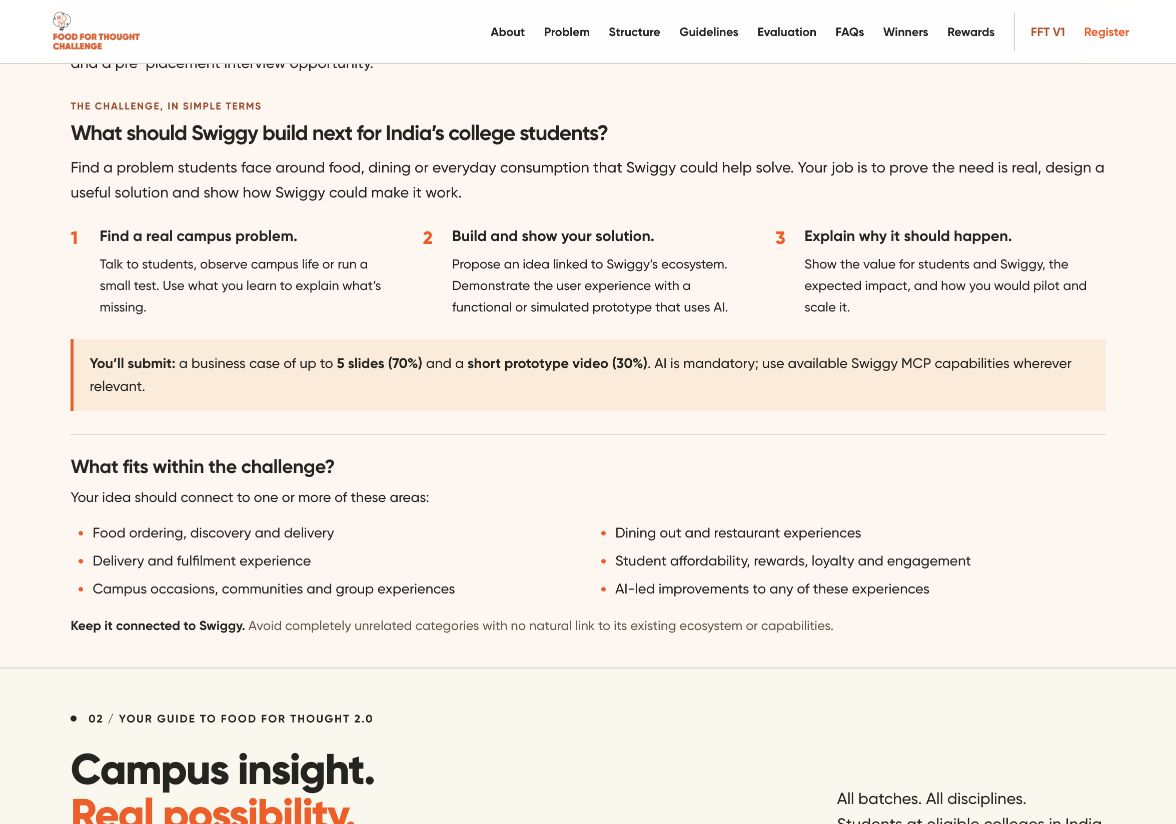
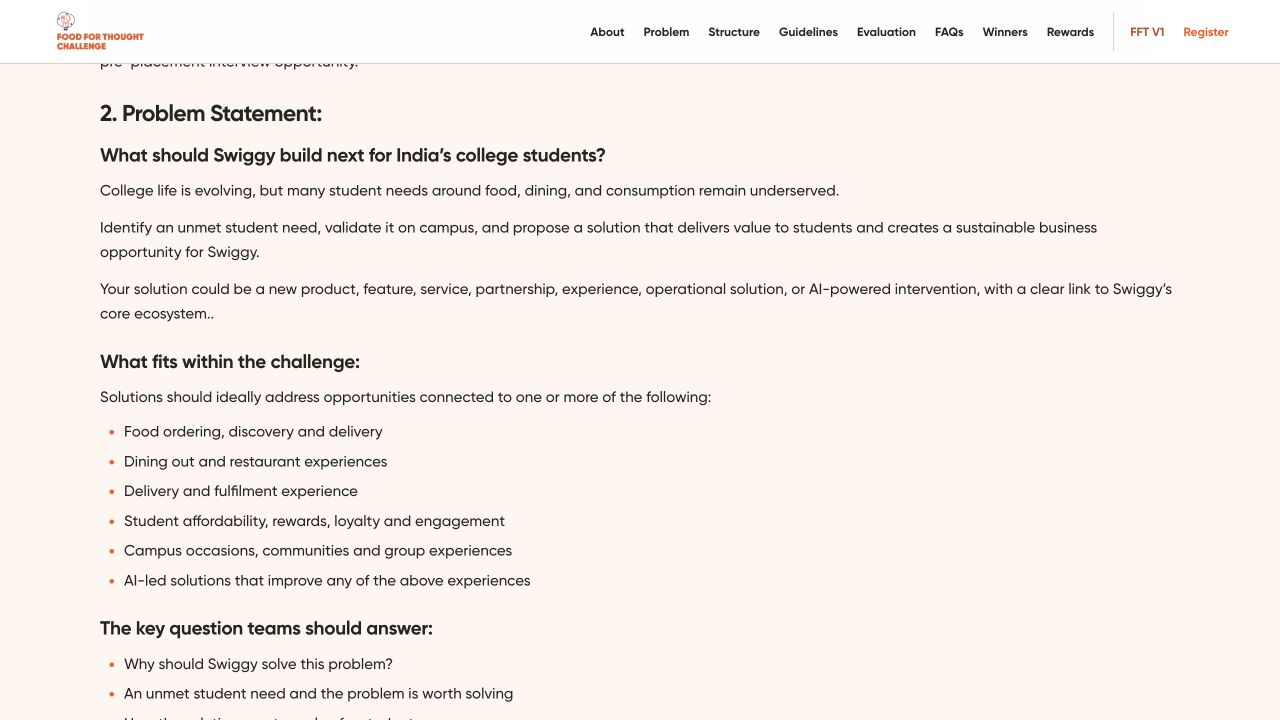
Restore the supplied problem statement verbatim

diff --git a/dist/index.html b/dist/index.html
@@ -27,10 +27,20 @@
 <div class="message-strip" aria-label="Competition focus"><span>DISCOVER AN UNMET NEED</span><span>VALIDATE YOUR IDEA</span><span>BUILD WHAT’S NEXT</span></div>
 <section id="about" class="section competition-intro"><div class="intro-wrap">
 <h2>About the Competition</h2><p>Food for Thought 2.0 invites students to solve a real business problem using insights from their own campus. Build a portfolio-worthy case, explore how Swiggy Food, Dineout and Instamart serve student needs, gain exposure to Swiggy’s business teams and leadership, and compete for cash rewards and a pre-placement interview opportunity.</p>
-<div id="problem" class="plain-problem"><span class="problem-label">THE CHALLENGE, IN SIMPLE TERMS</span><h3>What should Swiggy build next for India’s college students?</h3><p>Find a problem students face around food, dining or everyday consumption that Swiggy could help solve. Your job is to prove the need is real, design a useful solution and show how Swiggy could make it work.</p>
-<ol class="problem-steps"><li><strong>Find a real campus problem.</strong><span>Talk to students, observe campus life or run a small test. Use what you learn to explain what’s missing.</span></li><li><strong>Build and show your solution.</strong><span>Propose an idea linked to Swiggy’s ecosystem. Demonstrate the user experience with a functional or simulated prototype that uses AI.</span></li><li><strong>Explain why it should happen.</strong><span>Show the value for students and Swiggy, the expected impact, and how you would pilot and scale it.</span></li></ol>
-<p class="problem-deliverables"><strong>You’ll submit:</strong> a business case of up to <strong>5 slides (70%)</strong> and a <strong>short prototype video (30%)</strong>. AI is mandatory; use available Swiggy MCP capabilities wherever relevant.</p>
-<div class="visible-scope" id="scope"><h4>What fits within the challenge?</h4><p>Your idea should connect to one or more of these areas:</p><ul><li>Food ordering, discovery and delivery</li><li>Dining out and restaurant experiences</li><li>Delivery and fulfilment experience</li><li>Student affordability, rewards, loyalty and engagement</li><li>Campus occasions, communities and group experiences</li><li>AI-led improvements to any of these experiences</li></ul><p class="scope-boundary"><strong>Keep it connected to Swiggy.</strong> Avoid completely unrelated categories with no natural link to its existing ecosystem or capabilities.</p></div></div>
+<div id="problem" class="verbatim-problem">
+<h3>2. Problem Statement:</h3>
+<h4>What should Swiggy build next for India’s college students?</h4>
+<p>College life is evolving, but many student needs around food, dining, and consumption remain underserved.</p>
+<p>Identify an unmet student need, validate it on campus, and propose a solution that delivers value to students and creates a sustainable business opportunity for Swiggy.</p>
+<p>Your solution could be a new product, feature, service, partnership, experience, operational solution, or AI-powered intervention, with a clear link to Swiggy’s core ecosystem..</p>
+<h4 id="scope">What fits within the challenge:</h4>
+<p>Solutions should ideally address opportunities connected to one or more of the following:</p>
+<ul class="original-list"><li>Food ordering, discovery and delivery</li><li>Dining out and restaurant experiences</li><li>Delivery and fulfilment experience</li><li>Student affordability, rewards, loyalty and engagement</li><li>Campus occasions, communities and group experiences</li><li>AI-led solutions that improve any of the above experiences</li></ul>
+<h4>The key question teams should answer:</h4>
+<ul class="original-list"><li>Why should Swiggy solve this problem?</li><li>An unmet student need and the problem is worth solving</li><li>How the solution creates value for students</li><li>How it can create measurable business impact</li><li>How the solution can realistically be piloted and scaled</li></ul>
+<h4>What is outside the scope</h4>
+<p>Ideas that require Swiggy to enter completely unrelated categories with no natural link to its existing ecosystem or capabilities should be avoided.</p>
+</div>
 </div></section>
 <section id="journey" class="section compact-entry">
 <div class="section-marker">02 / YOUR GUIDE TO FOOD FOR THOUGHT 2.0</div><div class="section-heading"><h2>Campus insight.<br><span class="orange-text">Real possibility.</span></h2><p>All batches. All disciplines.<br>Students at eligible colleges in India.</p></div>

diff --git a/dist/styles.css b/dist/styles.css
@@ -80,3 +80,7 @@ dialog{background:var(--cream);border:1px solid var(--ink);border-radius:12px;pa
 @media(max-width:640px){.hero-caption .hero-deadline{margin-top:12px;padding:10px 13px}.hero-caption .hero-deadline p{font-size:17px;line-height:1.45}.deadline-note-label{font-size:9px}}
 
 .hero-deadline time{white-space:nowrap}
+
+/* Original problem statement: wording preserved verbatim, with readable spacing. */
+.verbatim-problem{margin-top:26px}.competition-intro .verbatim-problem h3{font-size:23px;margin:0 0 16px}.verbatim-problem h4{font-size:19px;line-height:1.35;letter-spacing:-.3px;margin:23px 0 10px}.verbatim-problem h3+h4{margin-top:0}.competition-intro .verbatim-problem p{margin-top:10px}.competition-intro .verbatim-problem .original-list{display:block;padding-left:22px;margin:10px 0 18px}.competition-intro .verbatim-problem .original-list li{font-size:15px;line-height:1.65;margin-top:5px}
+@media(max-width:640px){.competition-intro .verbatim-problem h3{font-size:21px}.verbatim-problem h4{font-size:17px;margin-top:21px}.competition-intro .verbatim-problem .original-list li{font-size:13px;line-height:1.6}}

diff --git a/README.md b/README.md
@@ -29,7 +29,7 @@ The main page includes:
 - **FAQ, downloadable checklist, proposed dates and registration steps.**
 - **2025 winners and FFT V1:** retained original artwork, photographs and separate recap. Winners remain before current rewards.
 
-A plain-language, three-step problem explanation follows About the Competition. The submission summary and all six scope areas are visible without opening a dropdown. Longer guidance is expandable, while submission weights, mandatory AI and proposed dates remain visible.
+The original problem statement is reproduced verbatim after About the Competition, including its scope, key questions and exclusions. No rewritten explanation, extra steps or additional submission summary appears in that section. Detailed submission guidance remains available below.
 
 ### Registration behavior
 
